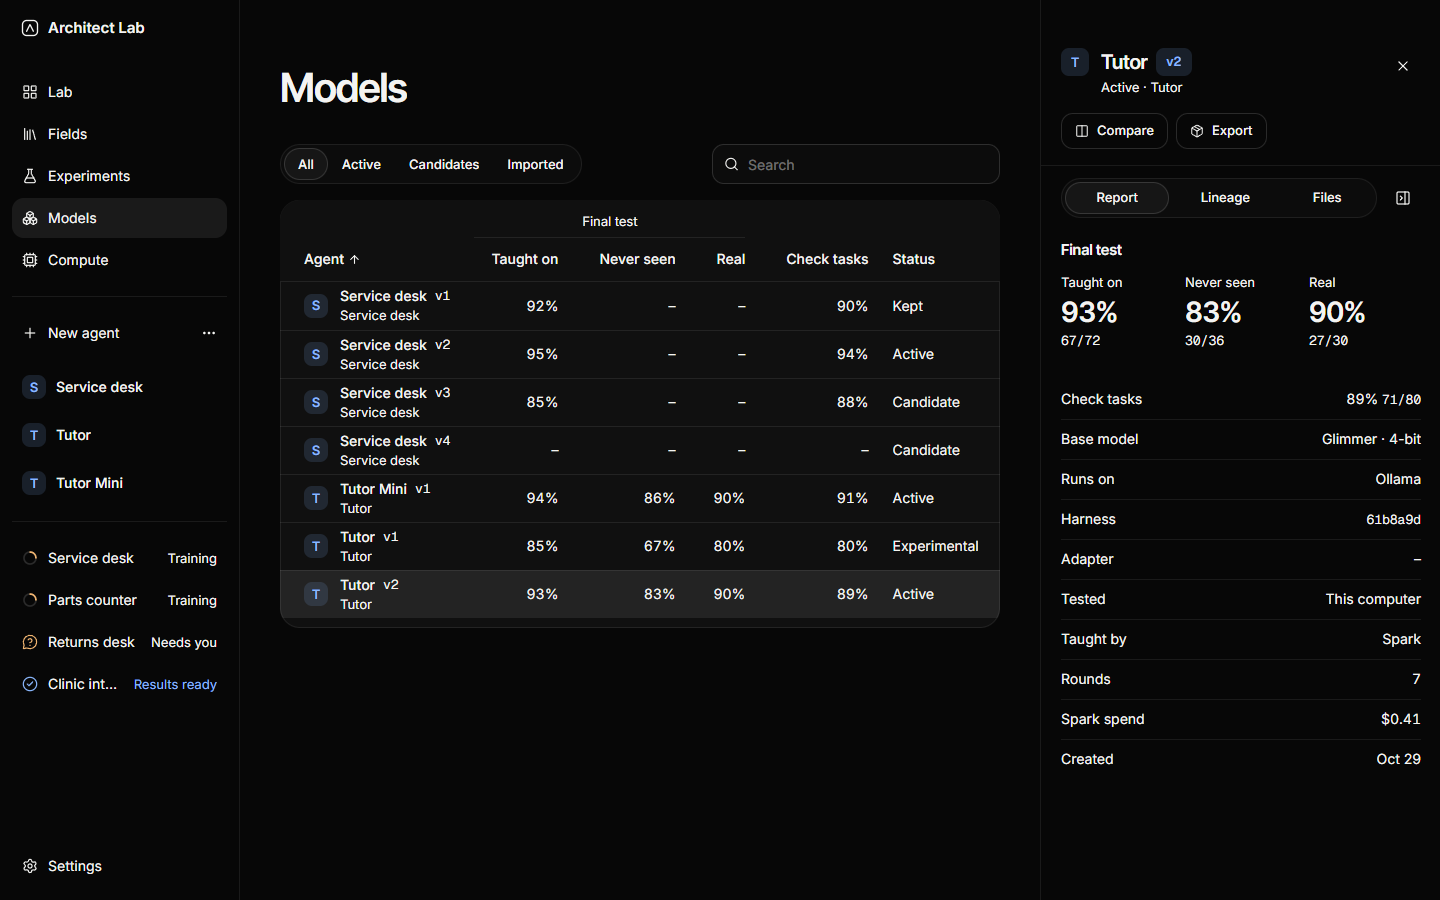
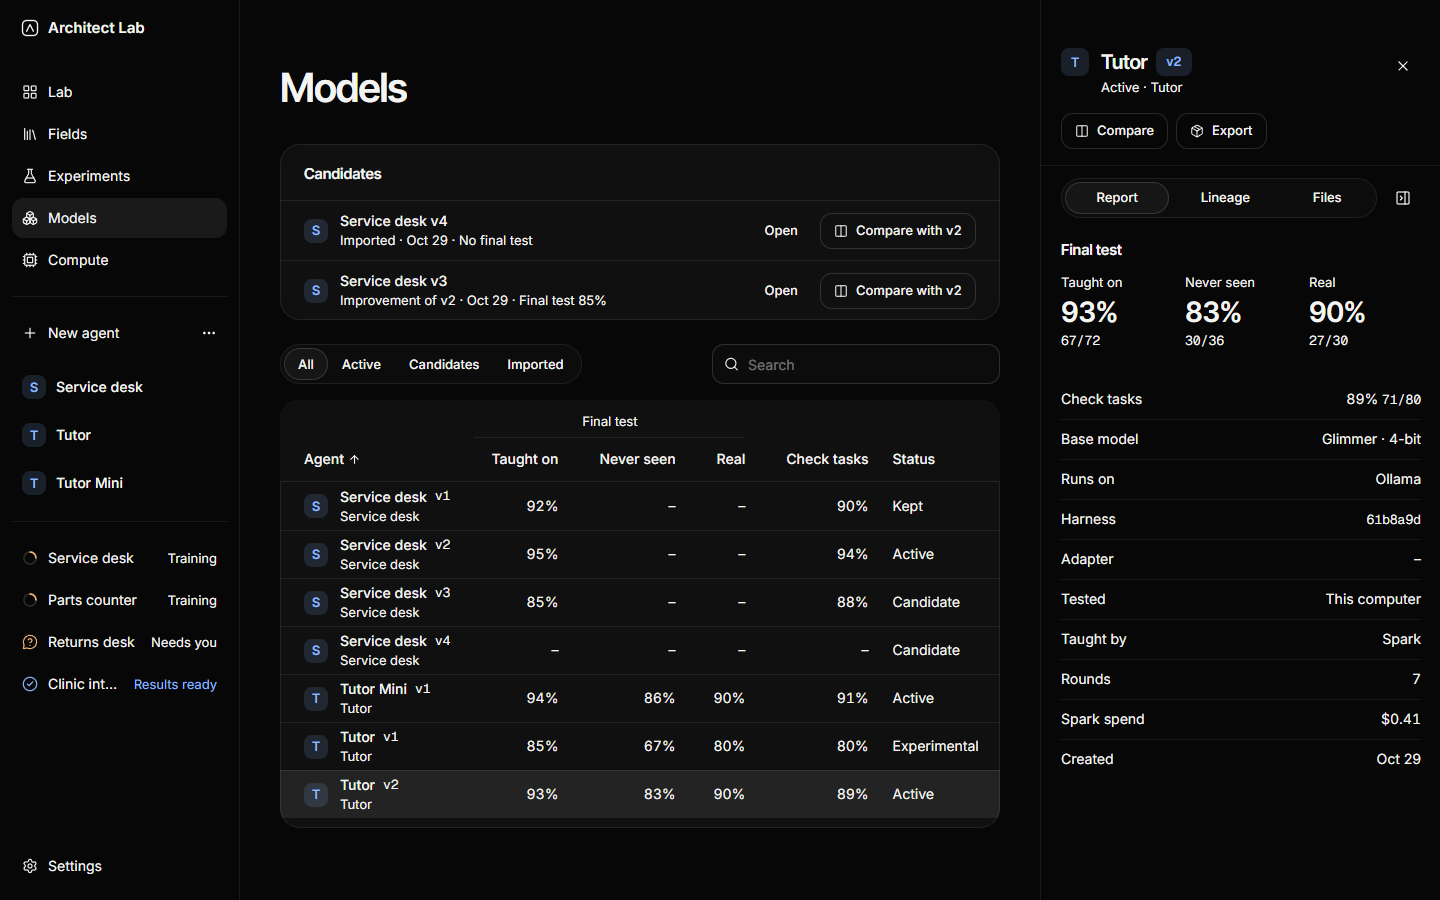
feat(models): list the candidates waiting to be accepted, labeled by origin, with a compare to the active version

diff --git a/apps/desktop/src/renderer/src/models/Candidates.tsx b/apps/desktop/src/renderer/src/models/Candidates.tsx
@@ -1,0 +1,77 @@
+import { AgentAvatar, Button, Card, CardRow } from '@architect/ui';
+import { Columns2 } from 'lucide-react';
+import { shortDate } from '../flow/format';
+import { formatPercent } from '../lib/format';
+import { comparable, imported, scoresOf, type ModelRow } from './registry';
+
+/** Where a candidate came from, in a few words: a run here, an improvement of a version, or another computer. */
+export function originOf(row: ModelRow): string {
+  const { version } = row;
+  if (imported(version)) return 'Imported';
+  if (version.parent !== undefined) return `Improvement of v${version.parent}`;
+  return 'From a run';
+}
+
+/**
+ * The versions waiting to be accepted, each with where it came from and its final test, and one
+ * click to set it beside the version that answers now. Nothing shows when none waits.
+ */
+export function Candidates({
+  rows,
+  onOpen,
+  onCompare,
+}: {
+  rows: readonly ModelRow[];
+  onOpen: (row: ModelRow) => void;
+  onCompare: (candidate: ModelRow, active: ModelRow) => void;
+}) {
+  const waiting = rows
+    .filter((row) => row.version.state === 'candidate' && !row.version.active)
+    .sort((a, b) => (a.version.createdAt < b.version.createdAt ? 1 : -1));
+  if (waiting.length === 0) return null;
+  return (
+    <Card title="Candidates" flush>
+      {waiting.map((row) => {
+        const active = rows.find(
+          (other) => other.agent.id === row.agent.id && other.version.active,
+        );
+        const seen = scoresOf(row).seen;
+        const name = `${row.agent.name} v${row.version.version}`;
+        return (
+          <CardRow
+            key={row.key}
+            icon={<AgentAvatar name={row.agent.name} />}
+            title={name}
+            detail={[
+              originOf(row),
+              shortDate(row.version.createdAt),
+              seen === null ? 'No final test' : `Final test ${formatPercent(seen)}`,
+            ].join(' · ')}
+            end={
+              <>
+                <Button
+                  variant="ghost"
+                  size="sm"
+                  aria-label={`Open ${name}`}
+                  onClick={() => onOpen(row)}
+                >
+                  Open
+                </Button>
+                {active && comparable(row, active) && (
+                  <Button
+                    size="sm"
+                    aria-label={`Compare ${name} with v${active.version.version}`}
+                    onClick={() => onCompare(row, active)}
+                  >
+                    <Columns2 size={14} strokeWidth={1.8} aria-hidden />
+                    Compare with v{active.version.version}
+                  </Button>
+                )}
+              </>
+            }
+          />
+        );
+      })}
+    </Card>
+  );
+}

diff --git a/apps/desktop/e2e/models.spec.ts b/apps/desktop/e2e/models.spec.ts
@@ -104,6 +104,29 @@ test('lists every agent and version with its scores, and filters and searches th
   await expect(table().getByRole('row').last()).toContainText('Service desk');
 });
 
+test('lists the candidates waiting to be accepted, each labeled, and compares one with the active', async () => {
+  await openModels();
+  const candidates = page.getByRole('region', { name: 'Candidates' });
+  await expect(candidates).toBeVisible();
+  // The service desk's two candidates, newest first: an improvement of version 2 and an import.
+  await expect(candidates.getByText('Service desk v3', { exact: true })).toBeVisible();
+  await expect(candidates).toContainText('Improvement of v2');
+  await expect(candidates).toContainText('Imported');
+  await expect(candidates).toContainText('Final test 85%');
+  await expect(candidates).toContainText('No final test');
+  await expect(candidates.getByRole('button', { name: /^Compare / })).toHaveCount(2);
+  await capture('models-candidates-dark.png');
+
+  await candidates.getByRole('button', { name: 'Open Service desk v3' }).click();
+  await expect(panel().getByRole('heading', { name: /Service desk/ })).toBeVisible();
+  await panel().getByRole('button', { name: 'Close' }).click();
+
+  await candidates.getByRole('button', { name: 'Compare Service desk v3 with v2' }).click();
+  await expect(page.getByRole('heading', { name: 'Compare', level: 1 })).toBeVisible();
+  await expect(page.getByRole('combobox', { name: 'Before' })).toContainText('Service desk v2');
+  await expect(page.getByRole('combobox', { name: 'After' })).toContainText('Service desk v3');
+});
+
 test("opens a model's panel with its report and lineage, and promotes a candidate", async () => {
   await openModels();
   await row(/^Tutor\s+version 2/).click();

diff --git a/apps/desktop/src/renderer/src/screens/ModelsScreen.tsx b/apps/desktop/src/renderer/src/screens/ModelsScreen.tsx
@@ -3,6 +3,7 @@ import { Button, EmptyState, Input, Segmented, Skeleton } from '@architect/ui';
 import { Boxes, Search } from 'lucide-react';
 import { ProblemState } from '../components/ProblemState';
 import { navigate, paths } from '../lib/router';
+import { Candidates } from '../models/Candidates';
 import { CompareView } from '../models/CompareView';
 import { useRegistry } from '../models/load';
 import { ModelPanel } from '../models/ModelPanel';
@@ -81,11 +82,21 @@ export function ModelsScreen() {
               }
             />
           ) : (
-            <Registry
-              rows={rows}
-              openKey={open ? open.key : null}
-              onOpen={(row) => setOpenKey(row.key)}
-            />
+            <div className="flex flex-col gap-6">
+              <Candidates
+                rows={rows}
+                onOpen={(row) => setOpenKey(row.key)}
+                onCompare={(candidate, active) => {
+                  const [before, after] = ordered(active, candidate);
+                  setComparing([before.key, after.key]);
+                }}
+              />
+              <Registry
+                rows={rows}
+                openKey={open ? open.key : null}
+                onOpen={(row) => setOpenKey(row.key)}
+              />
+            </div>
           )}
         </PlacePage>
       </div>
